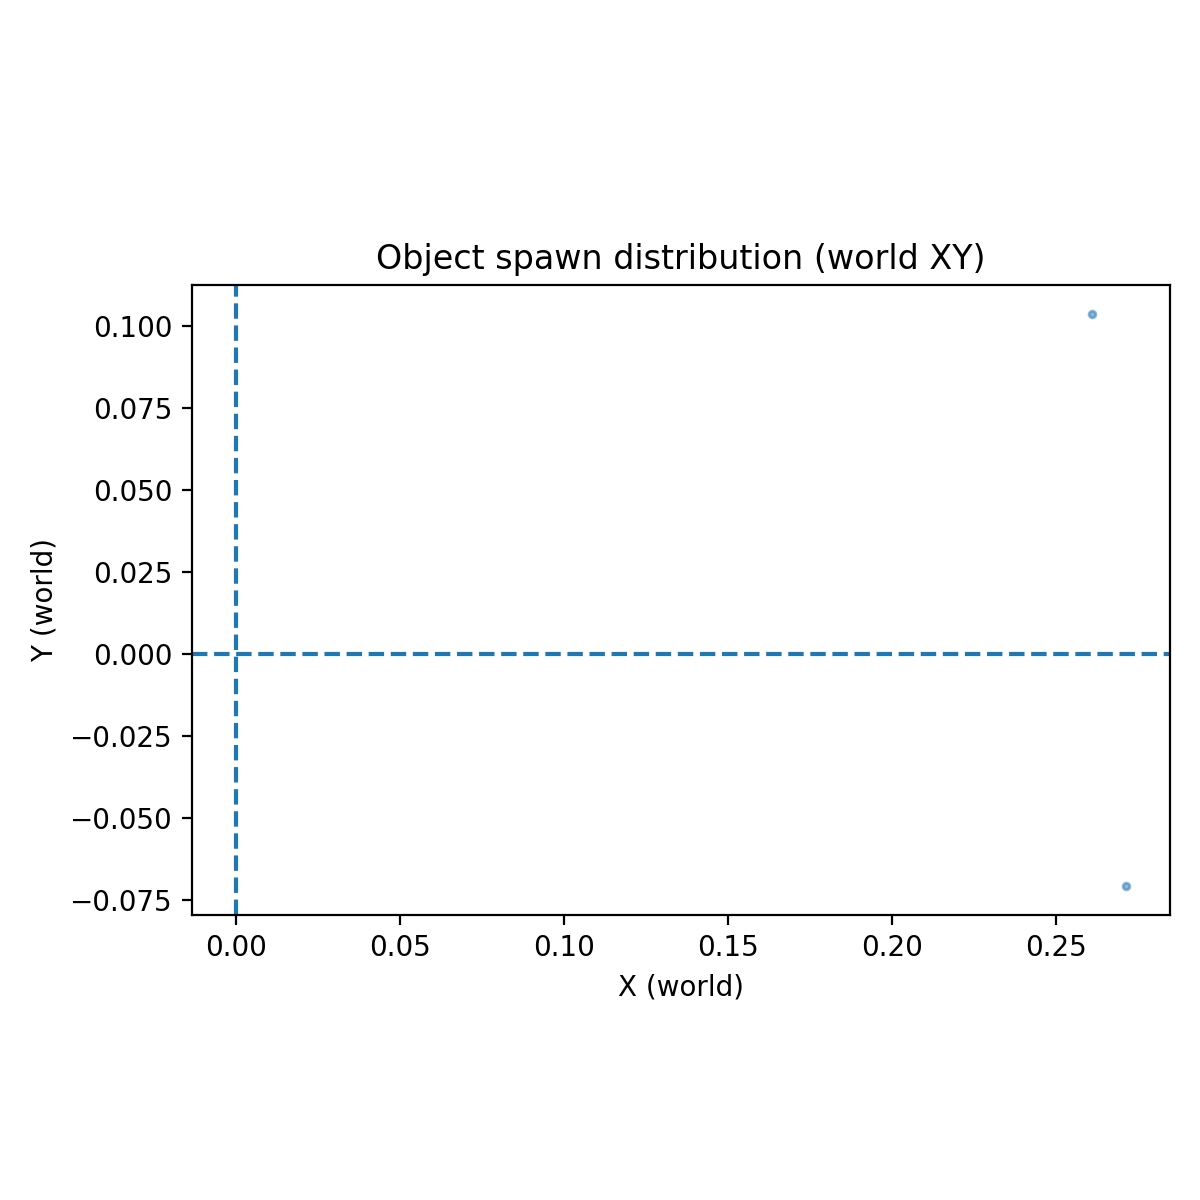
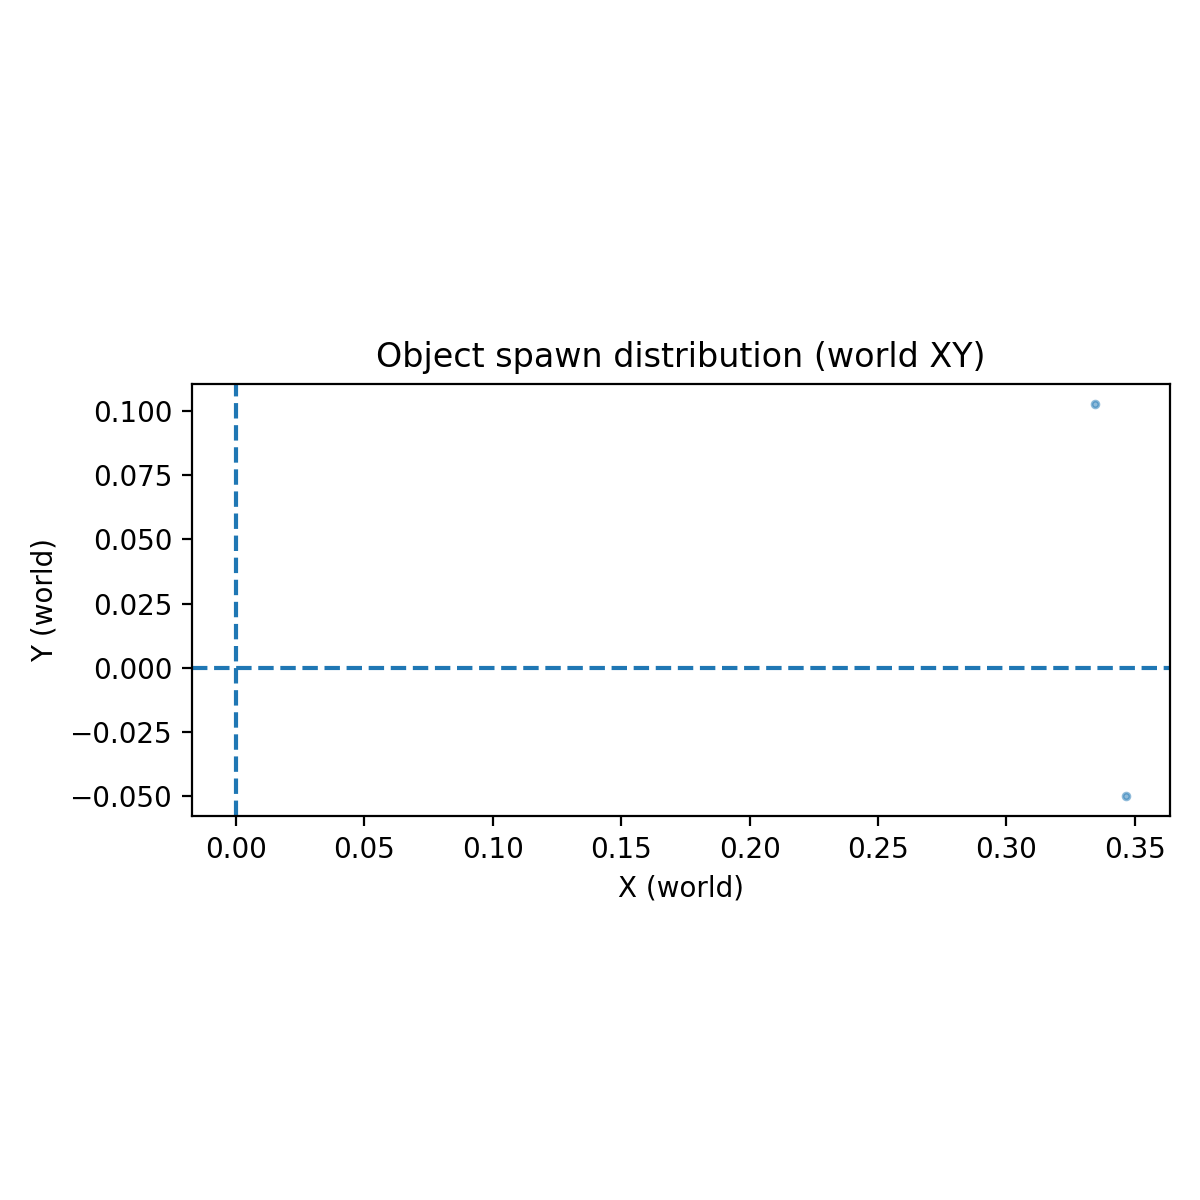
2026.1.14

Changed region(s): [[0.0617, 0.3083, 0.9867, 0.8325], [0.0925, 0.185, 0.9867, 0.3392], [0.185, 0.5242, 0.2158, 0.5858]]

diff --git a/source/isaaclab/isaaclab/envs/mdp/observations.py b/source/isaaclab/isaaclab/envs/mdp/observations.py
@@ -251,6 +251,113 @@ def imu_lin_acc(env: ManagerBasedEnv, asset_cfg: SceneEntityCfg = SceneEntityCfg
     return asset.data.lin_acc_b
 
 
+def image(
+    env: ManagerBasedEnv,
+    # cnt: int = 0,
+    sensor_cfg: SceneEntityCfg = SceneEntityCfg("tiled_camera"),
+    data_type: str = "rgb",
+    convert_perspective_to_orthogonal: bool = False,
+    normalize: bool = True,
+    depth_cfg : SceneEntityCfg = SceneEntityCfg("tiled_camera2"),
+) -> torch.Tensor:
+    """Images of a specific datatype from the camera sensor.
+
+    If the flag :attr:`normalize` is True, post-processing of the images are performed based on their
+    data-types:
+
+    - "rgb": Scales the image to (0, 1) and subtracts with the mean of the current image batch.
+    - "depth" or "distance_to_camera" or "distance_to_plane": Replaces infinity values with zero.
+
+    Args:
+        env: The environment the cameras are placed within.
+        sensor_cfg: The desired sensor to read from. Defaults to SceneEntityCfg("tiled_camera").
+        data_type: The data type to pull from the desired camera. Defaults to "rgb".
+        convert_perspective_to_orthogonal: Whether to orthogonalize perspective depth images.
+            This is used only when the data type is "distance_to_camera". Defaults to False.
+        normalize: Whether to normalize the images. This depends on the selected data type.
+            Defaults to True.
+
+    Returns:
+        The images produced at the last time-step
+    """
+    # extract the used quantities (to enable type-hinting)
+    sensor: TiledCamera | Camera | RayCasterCamera = env.scene.sensors[sensor_cfg.name]
+
+    # obtain the input image
+    images = sensor.data.output[data_type]
+    # depth image conversion
+    # images = images[:, :, images.shape[2] // 2:, :]
+
+    # obs_image = torch.tensor(images).float().squeeze(0).cpu().numpy()  # Convert to tensor and float type
+    # obs_bgr = cv2.cvtColor(obs_image, cv2.COLOR_RGB2BGR)
+    # os.makedirs("IMAGES2", exist_ok=True)
+    # # os.makedirs("IMAGES17", exist_ok=True)
+    step = 0
+    step += 1
+    # # cv2.imwrite(f"./IMAGES16/observation_{time1}.png", obs_image)
+    # cv2.imwrite(f"/home/roborock/下载/{step}.png", images)
+    # import pdb
+    # pdb.set_trace()
+    # with open('output_formres9.txt', 'a') as f:
+    #     f.write(f"observation_{time1}.png\n")
+    # print(f"./IMAGES2/observation_{time1}.png")
+    depth = env.scene.sensors[depth_cfg.name].data.output["distance_to_image_plane"]
+    # print("depth shape:",depth.shape)
+    # depth_np = depth.squeeze(0).squeeze(-1).cpu().numpy()  # shape [H, W]
+
+    # # 归一化到 0~255
+    # depth_norm = (depth_np - depth_np.min()) / (depth_np.max() - depth_np.min())
+    # depth_uint8 = (depth_norm * 255).astype(np.uint8)
+
+    # os.makedirs("depth_images", exist_ok=True)
+    # timestamp = time.time()
+    # cv2.imwrite(f"depth_images/depth_{timestamp}.png", depth_uint8)
+    if (data_type == "distance_to_camera") and convert_perspective_to_orthogonal:
+        images = math_utils.orthogonalize_perspective_depth(images, sensor.data.intrinsic_matrices)
+    # obs_np = rgb_image_tensor.squeeze(0).cpu().numpy() 
+    # # act_np = actions.cpu().numpy() 
+    # # os.makedirs(act_log_dir, exist_ok=True)
+    # # np.save(os.path.join(act_log_dir, f"act_step_{t}.npy"), act_np)
+    # if obs_np.dtype == np.float32 or obs_np.max() <= 1.0:
+    #     obs_np = (obs_np * 255).astype(np.uint8)
+
+    # # RGB 转 BGR 再保存
+    # obs_bgr = cv2.cvtColor(obs_np, cv2.COLOR_RGB2BGR)
+    # os.makedirs("IMAGES1", exist_ok=True)
+    # cv2.imwrite(f"./IMAGES1/observation_{cnt}.png", obs_bgr)
+    # print(f"./IMAGES1/observation_{cnt}.png")
+    # rgb/depth image normalization
+    if normalize:
+        # print(f"Normalizing images of type: {data_type}")
+        if data_type == "rgb":
+            images = images.float() / 255.0
+            mean_tensor = torch.mean(images, dim=(1, 2), keepdim=True)
+            images -= mean_tensor
+
+            # images = images.float()
+
+            # obs_np2 = images.squeeze(0).cpu().numpy() 
+            # # act_np = actions.cpu().numpy() 
+            # # os.makedirs(act_log_dir, exist_ok=True)
+            # # np.save(os.path.join(act_log_dir, f"act_step_{t}.npy"), act_np)
+            # if obs_np2.dtype == np.float32 or obs_np2.max() <= 1.0:
+            #     obs_np2 = (obs_np2 * 255).astype(np.uint8)
+
+            # # RGB 转 BGR 再保存
+            # obs_bgr2 = cv2.cvtColor(obs_np2, cv2.COLOR_RGB2BGR)
+            # os.makedirs("IMAGES13", exist_ok=True)
+            # cv2.imwrite(f"./IMAGES13/observation_{time.time()}.png", obs_np2)
+
+            pass
+        elif "distance_to" in data_type or "depth" in data_type:
+            images[images == float("inf")] = 0
+    # print("image shape11:",images.shape)
+    # 深度图与RGB图拼接
+    images = torch.cat((images, depth), dim=-1)
+    # print("image shape22:",images.shape)
+    return images.clone()
+
+
 class image_features(ManagerTermBase):
     """Extracted image features from a pre-trained frozen encoder.
 
@@ -516,97 +623,8 @@ class image_features(ManagerTermBase):
         # save_ply(points, colors=None, output_path=output_path.replace(".ply","_downsampled8.ply"))
         return points
     
-    def depth_to_pointcloud_batch_gpu(self, depth_batch, fx, fy, cx, cy, num_points=1024, **kwargs):
-        B, H, W = depth_batch.shape
-        device = depth_batch.device
-        dtype = torch.float32  # 建议强制 float32，避免奇怪 half 的 NaN 传播
-
-        self._init_pcd_buffers(H, W, device)
-
-        # (B, HW)
-        u = self._pc_u.expand(B, -1)
-        v = self._pc_v.expand(B, -1)
-
-        # ---- sanitize intrinsics ----
-        fx_t = torch.as_tensor(fx, device=device, dtype=dtype)
-        fy_t = torch.as_tensor(fy, device=device, dtype=dtype)
-        cx_t = torch.as_tensor(cx, device=device, dtype=dtype)
-        cy_t = torch.as_tensor(cy, device=device, dtype=dtype)
-
-        # 防 0 / NaN
-        fx_t = torch.nan_to_num(fx_t, nan=0.0, posinf=0.0, neginf=0.0).clamp(min=1e-6)
-        fy_t = torch.nan_to_num(fy_t, nan=0.0, posinf=0.0, neginf=0.0).clamp(min=1e-6)
-
-        # ---- sanitize depth ----
-        Z = depth_batch.reshape(B, -1).to(dtype)
-        Z = torch.nan_to_num(Z, nan=0.0, posinf=0.0, neginf=0.0)
-
-        # 可选：限制深度范围（按你相机量程改）
-        max_depth = kwargs.get("max_depth", 2.5)
-        valid_z = (Z > 1e-6) & (Z < max_depth)
-
-        X = (u.to(dtype) - cx_t) * Z / fx_t
-        Y = (v.to(dtype) - cy_t) * Z / fy_t
-
-        points = torch.stack([X, -Y, Z], dim=-1)  # (B, HW, 3)
-
-        # 任何 NaN/Inf 直接视为无效点（否则会污染 dist/weights）
-        finite_pts = torch.isfinite(points).all(dim=-1)
-        points = torch.nan_to_num(points, nan=0.0, posinf=0.0, neginf=0.0)
-
-        # rotate + translate (cached)
-        points = points @ self._pc_R.T
-        points = points + self._pc_t
-
-        # --- mask logic ---
-        rand_thresh = (torch.rand((), device=device) * (0.002 - (-0.0003)) + (-0.0003))
-        mask2 = points[:, :, 0] <= 0.42
-        mask3 = points[:, :, 2] >= rand_thresh
-        mask = mask2 & mask3 & valid_z & finite_pts  # (B, HW)
-
-        # --- weights ---
-        # dist 里也可能出现 NaN（虽然 points 处理过了，但保险）
-        dist = torch.linalg.norm(points, dim=-1)  # (B, HW)
-        dist = torch.nan_to_num(dist, nan=1e6, posinf=1e6, neginf=1e6)
-
-        weights = torch.exp(-dist) * mask.float()
-        weights = torch.nan_to_num(weights, nan=0.0, posinf=0.0, neginf=0.0)
-        weights = torch.clamp(weights, min=0.0)
-
-        row_sum = weights.sum(dim=1)  # (B,)
-        bad = (~torch.isfinite(row_sum)) | (row_sum <= 1e-12)
-
-        # 关键：不要让 multinomial 看到 bad 行
-        idx = torch.empty((B, num_points), device=device, dtype=torch.long)
-
-        good = ~bad
-        if good.any():
-            w_good = weights[good]
-            # 不强制归一化也行，但归一化更稳一些
-            w_good = w_good / (w_good.sum(dim=1, keepdim=True) + 1e-12)
-            idx[good] = torch.multinomial(w_good, num_points, replacement=True)
-
-        if bad.any():
-            # bad 行：随便给 idx（后面会把 sampled 置 0）
-            idx[bad] = 0
-
-        sampled = points.gather(1, idx.unsqueeze(-1).expand(-1, -1, 3))  # (B, num_points, 3)
-
-        if bad.any():
-            sampled[bad] = 0.0
-
-        sampled = randomize_pointcloud_batch_torch(
-            sampled,
-            dropout_rate=0.02,
-            outlier_ratio=0.02,
-            outlier_max_offset=0.08,
-            surface_jitter=0.001,
-        )
-        return sampled
-
-    # GPU-accelerated version for batch processing
     # 速度更慢
-    def depth_to_pointcloud_batch_gpu1(self, depth_batch, fx, fy, cx, cy, num_points=1024,
+    def depth_to_pointcloud_batch_gpu(self, depth_batch, fx, fy, cx, cy, num_points=1024,
                                        save_ply_debug=False, env_id=0, frame_counter=None, save_dir="debug_pointclouds", env=None):
         """GPU-accelerated batch point cloud generation with systematic PLY saving."""
         import os
@@ -930,7 +948,7 @@ class image_features(ManagerTermBase):
             cx,
             cy,
             num_points=1024,
-            save_ply_debug=True,
+            save_ply_debug=False,
             env_id=0,
             frame_counter=self._frame_counter,
             save_dir="debug_pointclouds",

diff --git a/source/isaaclab_rl/isaaclab_rl/rsl_rl/exporter.py b/source/isaaclab_rl/isaaclab_rl/rsl_rl/exporter.py
@@ -143,6 +143,31 @@ class _OnnxPolicyExporter(torch.nn.Module):
     def forward(self, x):
         return self.actor(self.normalizer(x))
     
+    def _infer_obs_dim(self) -> int:
+        """Infer observation dimension for ONNX export.
+
+        Priority:
+          1) From normalizer running stats (most reliable).
+          2) From first Linear layer of actor (works for MLP-based actors).
+        """
+        # 1) normalizer stats
+        for attr in ("_mean", "mean", "running_mean"):
+            if hasattr(self.normalizer, attr):
+                t = getattr(self.normalizer, attr)
+                if isinstance(t, torch.Tensor) and t.numel() > 0:
+                    # supports shapes like (obs_dim,) or (1, obs_dim)
+                    return int(t.shape[-1])
+
+        # 2) actor first Linear
+        for m in self.actor.modules():
+            if isinstance(m, torch.nn.Linear):
+                return int(m.in_features)
+
+        raise RuntimeError(
+            "Cannot infer obs_dim for ONNX export. "
+            "Provide a normalizer with running stats, or use an actor with a Linear first layer."
+        )
+    
     # def forward(self, x):
     #     image_features = self.cnn_feature(x["image"])
     #     state_features = self.state_encoder(x["joint_pos"])
@@ -170,7 +195,8 @@ class _OnnxPolicyExporter(torch.nn.Module):
                 dynamic_axes={},
             )
         else:
-            obs = torch.zeros(1, 1536)
+            obs_dim = self._infer_obs_dim()
+            obs = torch.zeros(1, obs_dim)
             torch.onnx.export(
                 self,
                 obs,
@@ -183,7 +209,7 @@ class _OnnxPolicyExporter(torch.nn.Module):
                 dynamic_axes={},
             )
         
-        #改动
+        # 改动
         #     dummy_input = torch.zeros(1, 3, 300, 400)
         # torch.onnx.export(
         #     self,

diff --git a/source/isaaclab_tasks/isaaclab_tasks/manager_based/manipulation/lift/lift_env_cfg.py b/source/isaaclab_tasks/isaaclab_tasks/manager_based/manipulation/lift/lift_env_cfg.py
@@ -313,7 +313,7 @@ class EventCfg:
             },
             "spawn_mode": "arc_angle",
             "angle_range_deg": (-40.0, 40.0),   # 只在 -40°~+40° 这个扇形里
-            "radius_range": (0.28, 0.30),       # 物体距离圆心 0.25~0.35m
+            "radius_range": (0.35, 0.35),       # 物体距离圆心 0.25~0.35m
             "center_from_robot": True,         # 如果 env_origin 就在 M0 下面，就用 False
             "align_yaw_to_center": True,        # 让物体朝向圆心（M0）
         },
@@ -398,7 +398,7 @@ class RewardsCfg:
             "robot_cfg": SceneEntityCfg("robot"),
             "object_cfg": SceneEntityCfg("object_pool"),
             "debug": False,
-            "debug_every_steps": 10,
+            "debug_every_steps": 1,
             "debug_env": 0,
         },
         weight=5.0,                   # 先小一点，避免模型只顾着转不去抓
